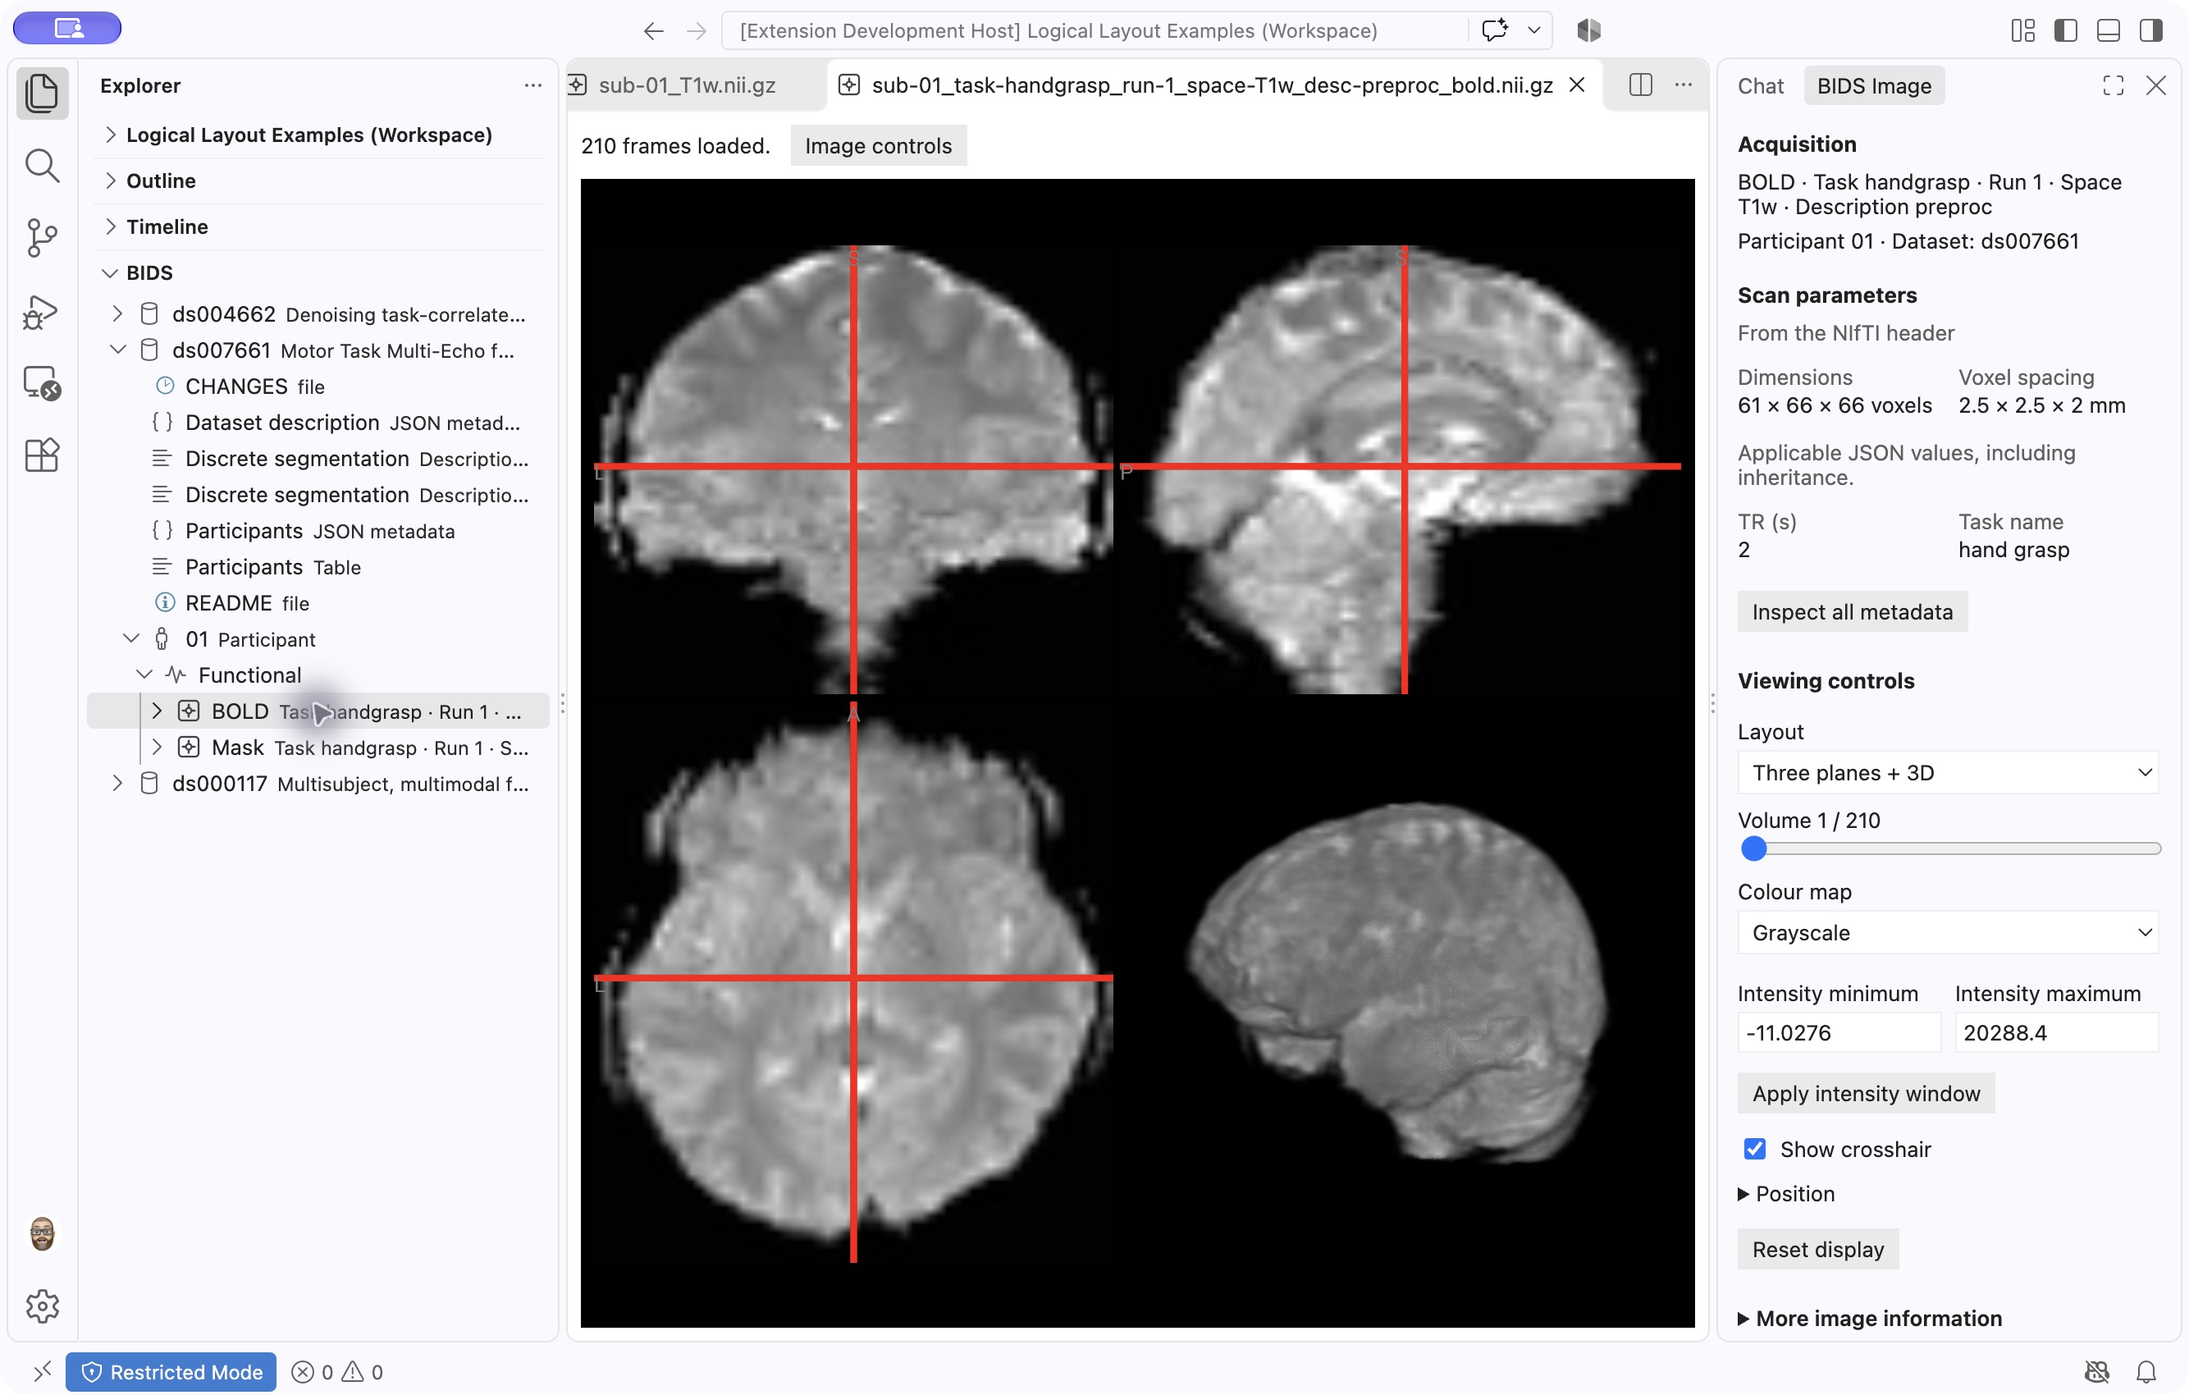
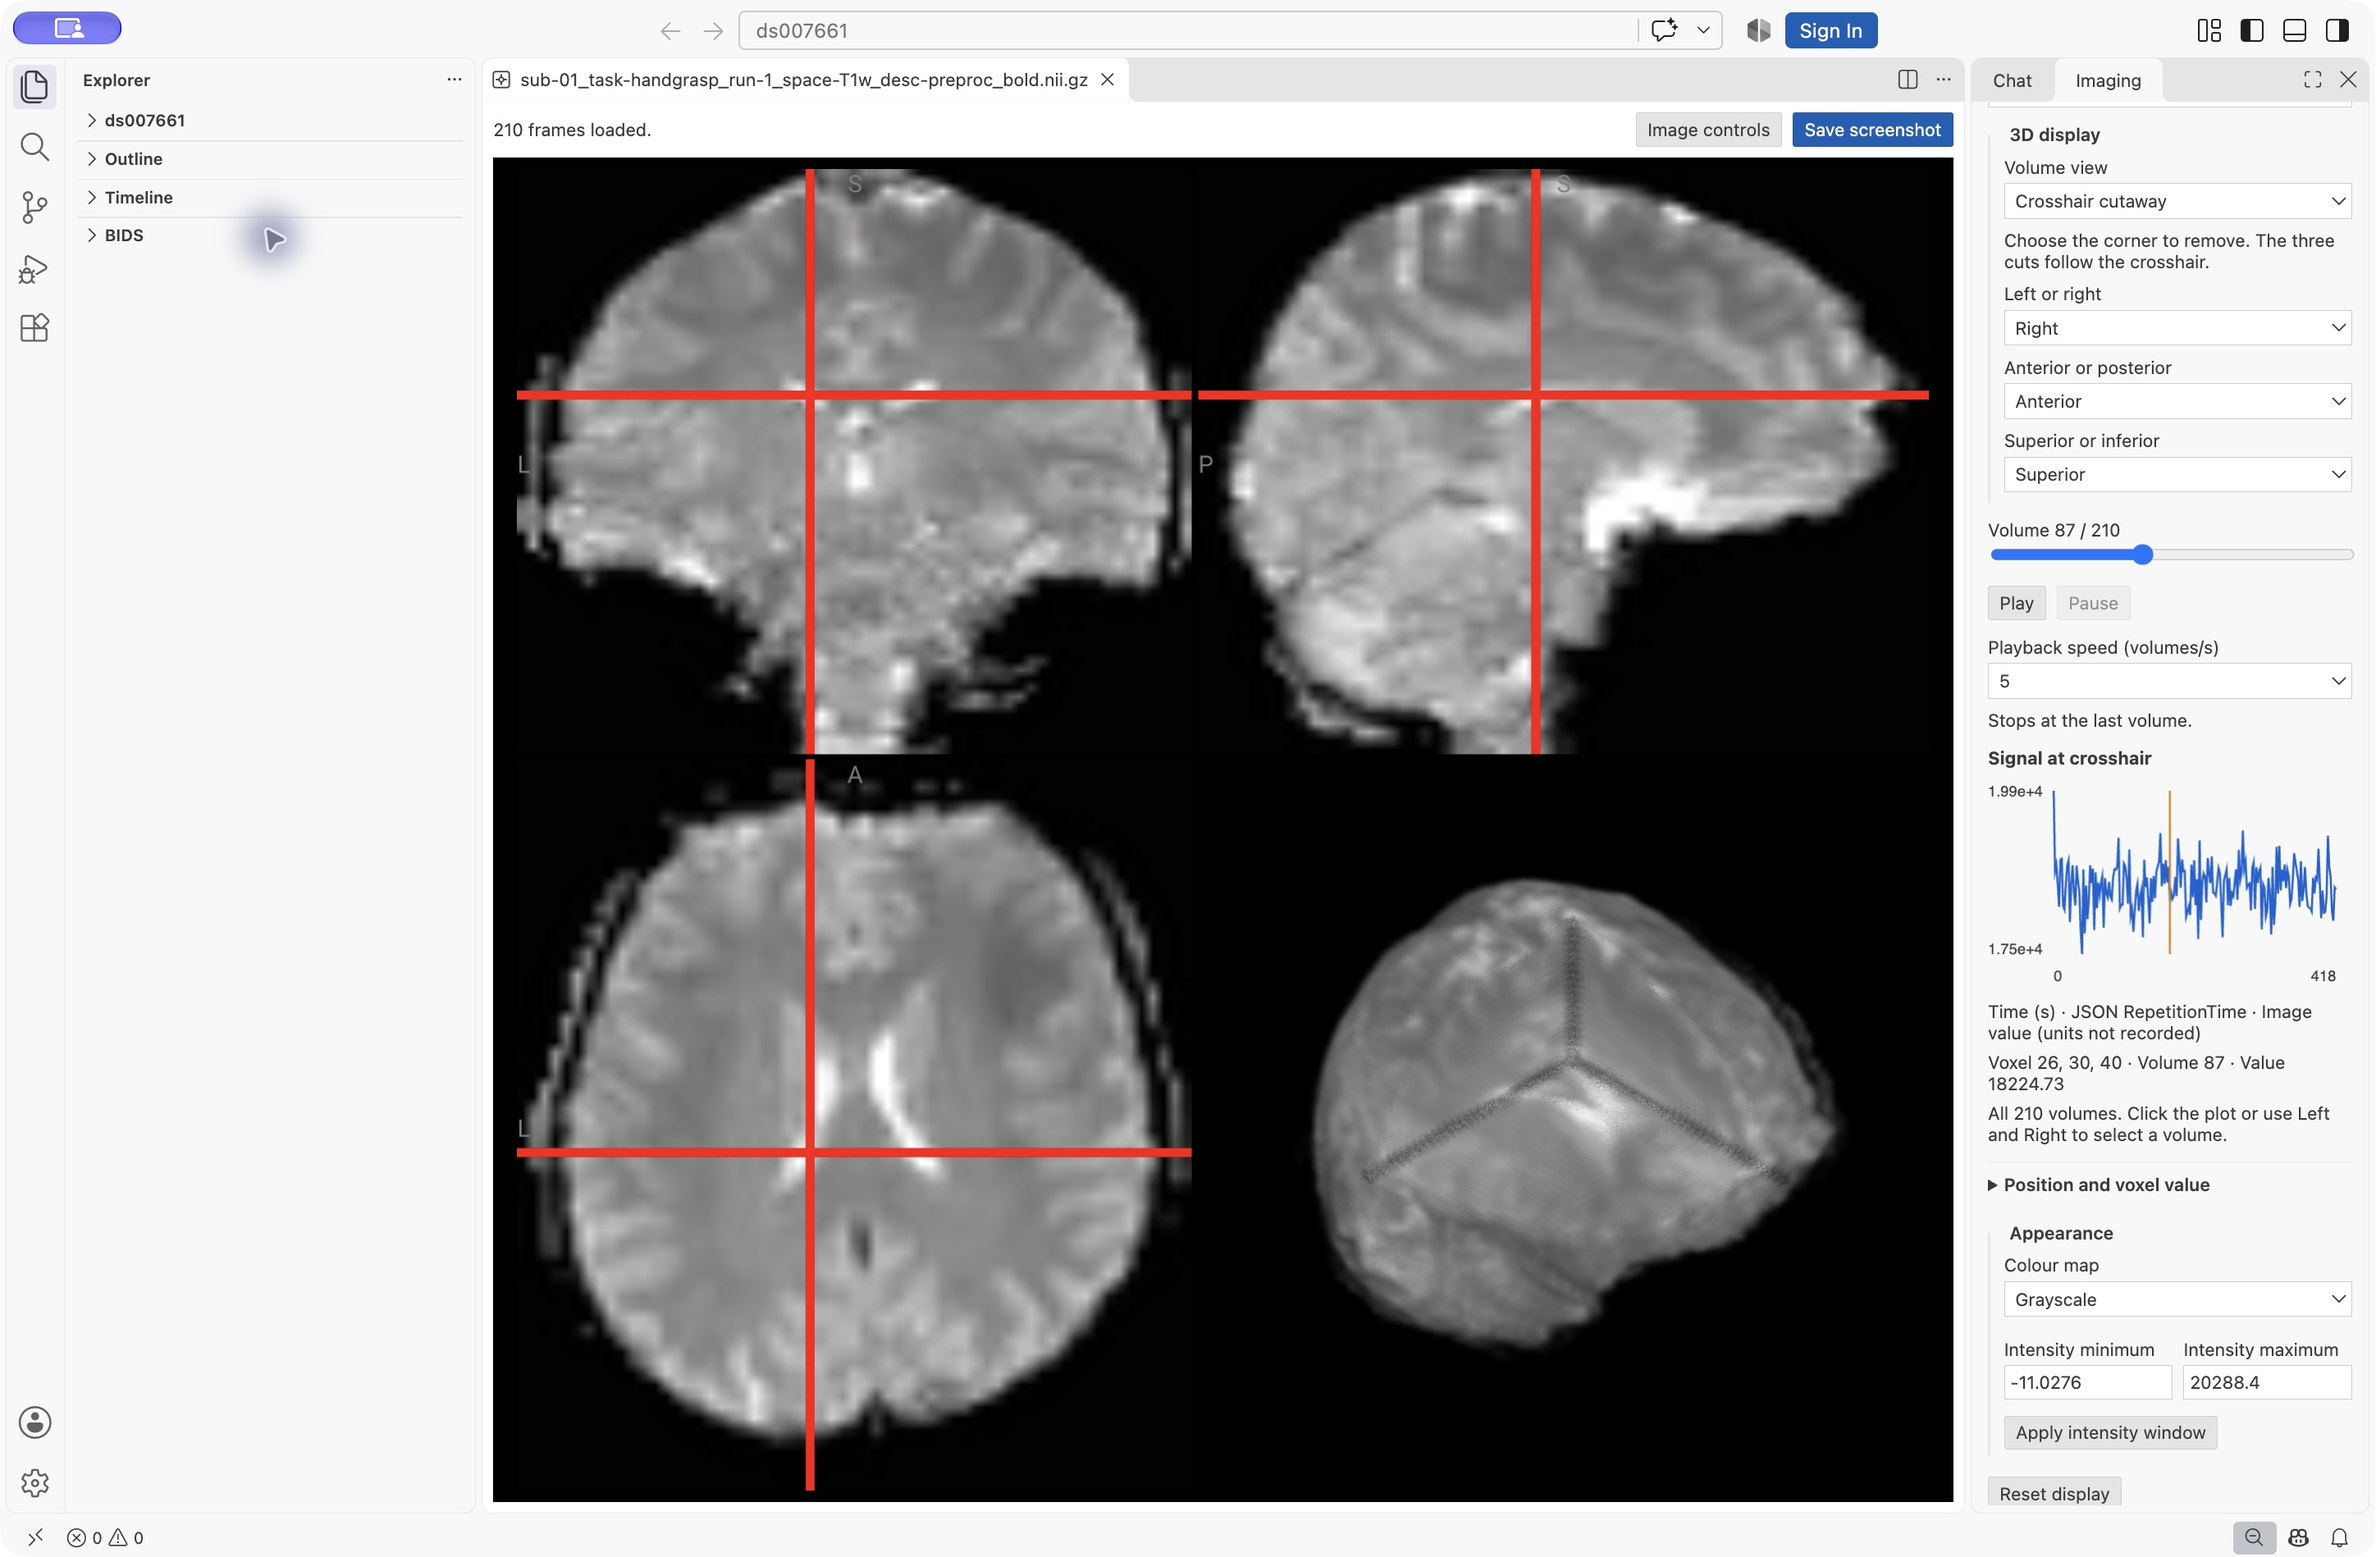
Refresh imaging screenshot and documentation for 1.4.0

diff --git a/docs/EVERYDAY_WORKFLOWS.md b/docs/EVERYDAY_WORKFLOWS.md
@@ -37,6 +37,10 @@ Register the raw and derivative folders and add the derivative folder to the raw
 
 Select a NIfTI image, then choose **Image controls** to open **Imaging**.
 
+![Functional MRI in the default crosshair cutaway layout, with playback controls and the signal at the crosshair in Imaging.](images/study-explorer.png)
+
+_Public [OpenNeuro ds007661](https://openneuro.org/datasets/ds007661) example. The orange marker in the signal plot and the Volume slider both indicate volume 87 of 210._
+
 - **Review a 4D run.** Once all volumes have loaded, choose **Play**. Adjust **Playback speed (volumes/s)** or choose **Pause** to stop on a volume. Moving the **Volume** slider pauses playback at your selection. Display speed is independent of acquisition timing.
 - **Inspect the signal at one voxel.** Move the crosshair to choose a voxel and read **Signal at crosshair**. The trace shows its values across volumes; playback and the Volume slider move the marker. Click the plot or use Left and Right to select a volume. The axis uses seconds when timing is established and volume numbers otherwise. Long runs show at most 4,096 evenly spaced samples, with a visible coverage note.
 - **Read a voxel value.** Expand **Position and voxel value**. Move the crosshair with the axis buttons or enter X, Y and Z and choose **Go to position**. The value follows the crosshair and the current volume of a 4D scan. For coordinates in image space, choose **Physical image coordinates**.

diff --git a/docs/MARKETPLACE.md b/docs/MARKETPLACE.md
@@ -4,9 +4,9 @@
 
 BIDS Explorer is a read-only study browser for datasets organized using the Brain Imaging Data Structure (BIDS). View MRI images, understand acquisition metadata and find participants with the sessions or processing outputs you need. Browse ordinary folders, ZIP files, supported tarballs and SquashFS collections in one logical study tree.
 
-![BIDS Explorer with a functional MRI selected in the participant tree, three orthogonal image planes and a 3D view, and acquisition information and controls on the right.](https://raw.githubusercontent.com/dlq/bids-explorer/main/docs/images/study-explorer.png)
+![BIDS Explorer showing a functional scan in three orthogonal slices and a 3D crosshair cutaway, with the Volume slider, playback controls and voxel signal plot on the right.](https://raw.githubusercontent.com/dlq/bids-explorer/main/docs/images/study-explorer.png)
 
-_Public functional MRI example from [OpenNeuro ds007661](https://openneuro.org/datasets/ds007661). Study navigation is on the left; image information and controls are on the right._
+_Public functional MRI example from [OpenNeuro ds007661](https://openneuro.org/datasets/ds007661). The BIDS tree is on the left. Imaging on the right includes playback and the signal across all 210 volumes at the crosshair; the orange marker follows the selected volume._
 
 ## Install and try it
 

diff --git a/README.md b/README.md
@@ -6,9 +6,9 @@
 
 View MRI images, read acquisition metadata and find participants with the sessions or processing outputs you need. BIDS Explorer brings folders and supported archives into one logical study tree, while keeping original filenames and sources accessible. Browsing leaves your dataset unchanged.
 
-![BIDS Explorer showing a participant’s functional scan, three orthogonal slices and a 3D view, with scan parameters and viewing controls on the right.](docs/images/study-explorer.png)
+![BIDS Explorer showing a functional scan in three orthogonal slices and a 3D crosshair cutaway, with the Volume slider, playback controls and voxel signal plot on the right.](docs/images/study-explorer.png)
 
-_Functional MRI example from the public [OpenNeuro ds007661 dataset](https://openneuro.org/datasets/ds007661). The BIDS tree is on the left; image information and controls are on the right._
+_Functional MRI example from the public [OpenNeuro ds007661 dataset](https://openneuro.org/datasets/ds007661). The BIDS tree is on the left. Imaging on the right includes playback and the signal across all 210 volumes at the crosshair; the orange marker follows the selected volume._
 
 ## What you can do
 
